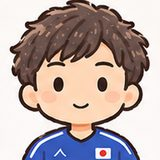
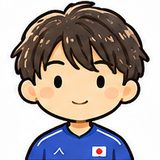
Japan vs Brazil v1.4.2: new faces for the 13 Japan players and Danilo
Every player in the guide now has a face illustration.

Claude-Session: https://claude.ai/code/session_01PjYYSrCq29nc8WryPU34RG

diff --git a/event-japan-brazil.html b/event-japan-brazil.html
@@ -291,7 +291,7 @@ body[data-team="br"] { --team: #E8B500; --team2: #0E8A45; }
   <div id="legend"></div>
   <div id="cards"></div>
   <p id="dataNote" data-t="dataNote"></p>
-  <div id="buildInfo">v1.4.1 · Updated Nov 13, 2026</div>
+  <div id="buildInfo">v1.4.2 · Updated Nov 13, 2026</div>
 </main>
 
 <main id="predict" hidden>
@@ -651,7 +651,7 @@ body[data-team="br"] { --team: #E8B500; --team2: #0E8A45; }
   }
   // Face illustrations from the call-up sheets (events/japan-brazil/faces/<slug>.jpg).
   // Players without one keep the number box (and the drawn player in the detail sheet).
-  var FACES = 'alisson-santana allan andre-luiz andrey-santos ao-tanaka arthur-dias ayumu-seko bento bruno-guimaraes carlos-augusto daichi-kamada daizen-maeda douglas-santos endrick estevao gabriel-bontempo gabriel-magalhaes hiroki-ito jair-cunha joao-gomes jonathan-jesus junnosuke-suzuki junya-ito kaishu-sano keisuke-goto keito-nakamura ko-itakura kodai-sano koki-machida koki-ogawa kuryu-matsuki leo-kokubo lucas-perri marlon-gomes pedro-morisco raphinha rayan ritsu-doan shio-fukuda shuto-nakano takefusa-kubo takumi-minamino tatsuhiro-sakamoto tomoki-hayakawa tsuyoshi-watanabe vanderson vinicius-junior vitor-reis wesley-franca yuito-suzuki yuki-soma yukinari-sugawara zion-suzuki'.split(' ');
+  var FACES = 'alisson-santana allan andre-luiz andrey-santos ao-tanaka arthur-dias ayumu-seko bento bruno-guimaraes carlos-augusto daichi-kamada daizen-maeda danilo douglas-santos endrick estevao gabriel-bontempo gabriel-magalhaes hiroki-ito jair-cunha joao-gomes jonathan-jesus junnosuke-suzuki junya-ito kaishu-sano keisuke-goto keito-nakamura ko-itakura kodai-sano koki-machida koki-ogawa kuryu-matsuki leo-kokubo lucas-perri marlon-gomes pedro-morisco raphinha rayan ritsu-doan shio-fukuda shuto-nakano takefusa-kubo takumi-minamino tatsuhiro-sakamoto tomoki-hayakawa tsuyoshi-watanabe vanderson vinicius-junior vitor-reis wesley-franca yuito-suzuki yuki-soma yukinari-sugawara zion-suzuki'.split(' ');
   function faceSlug(name) {
     var n = name.toLowerCase();
     try { n = n.normalize('NFD').replace(/[\u0300-\u036f]/g, ''); } catch (e) { /* old browsers */ }
